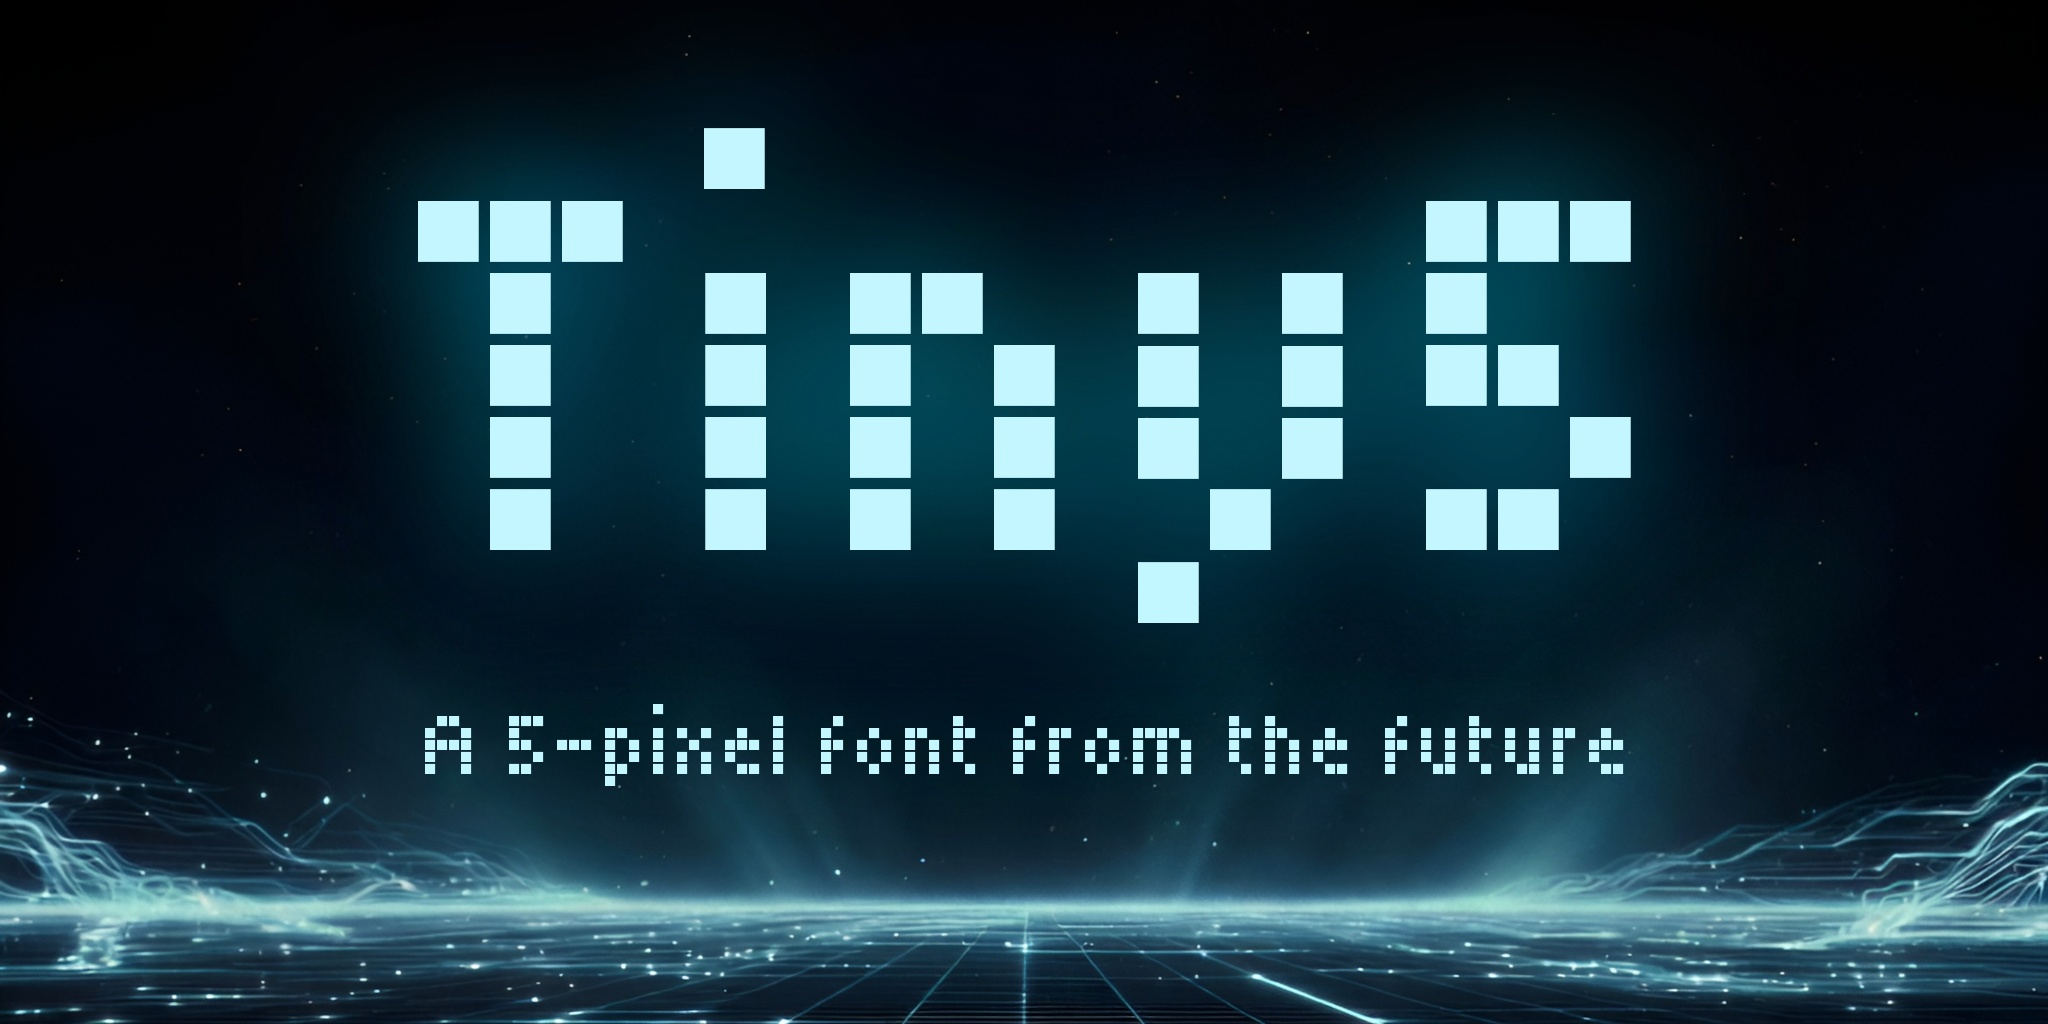
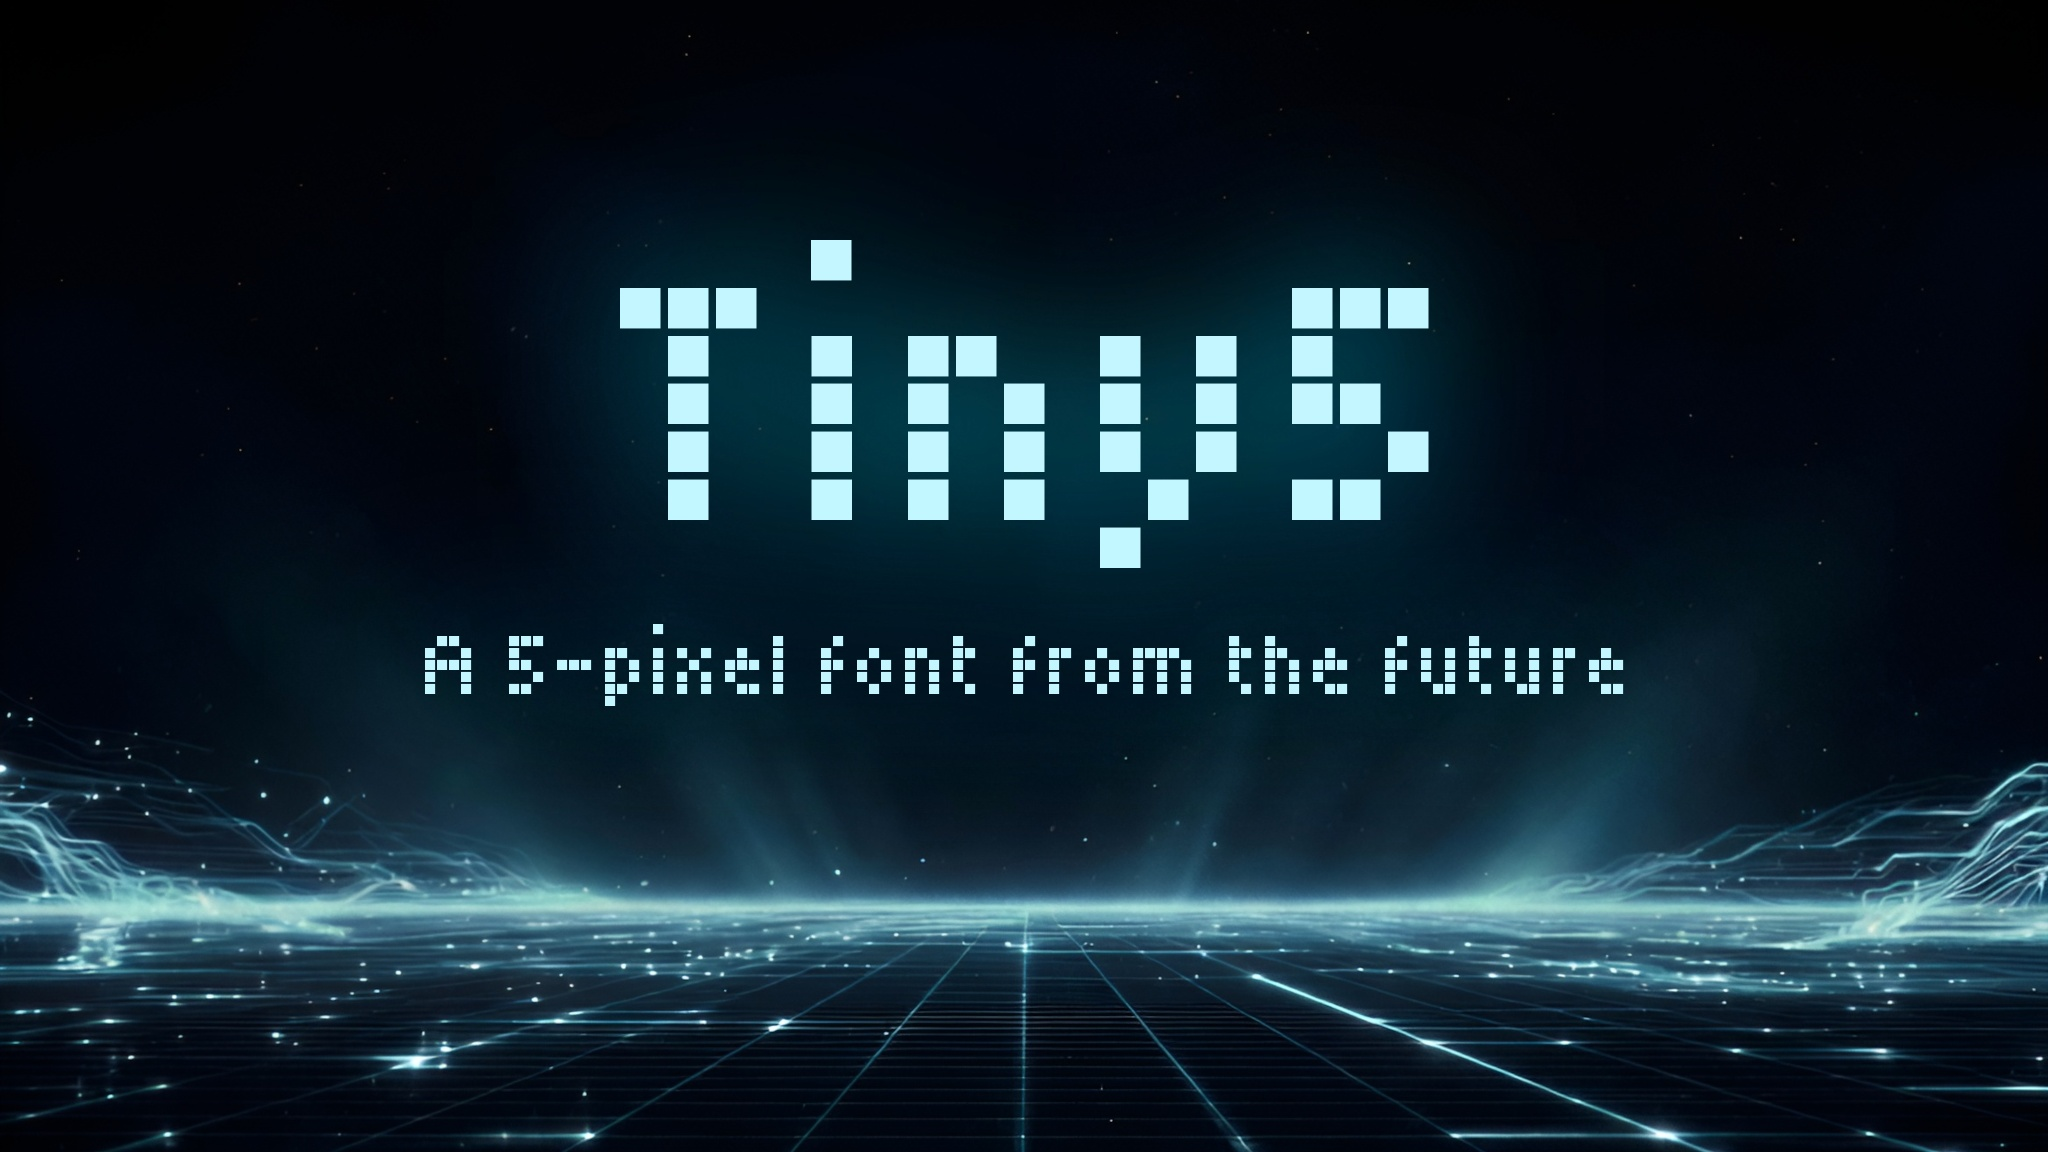
Presentation update

diff --git a/documentation/build-images.py b/documentation/build-images.py
@@ -201,11 +201,11 @@ def draw_presentation(path_in, path_out):
     """Generate and save a presentation image with Tiny5 font title and subtitle."""
     img = load_image(path_in)
 
-    title_size = 72 * FONT_PIXEL_SIZE
+    title_size = 48 * FONT_PIXEL_SIZE
     subtitle_size = 12 * FONT_PIXEL_SIZE
 
     content_left = img.width // 2
-    content_top = (img.height - (title_size + 2 * subtitle_size)) // 2
+    content_top = (img.height - (title_size + 3 * subtitle_size)) // 2
 
     fill_color = (195, 246, 255)
     glow_color = (0, 186, 219)
